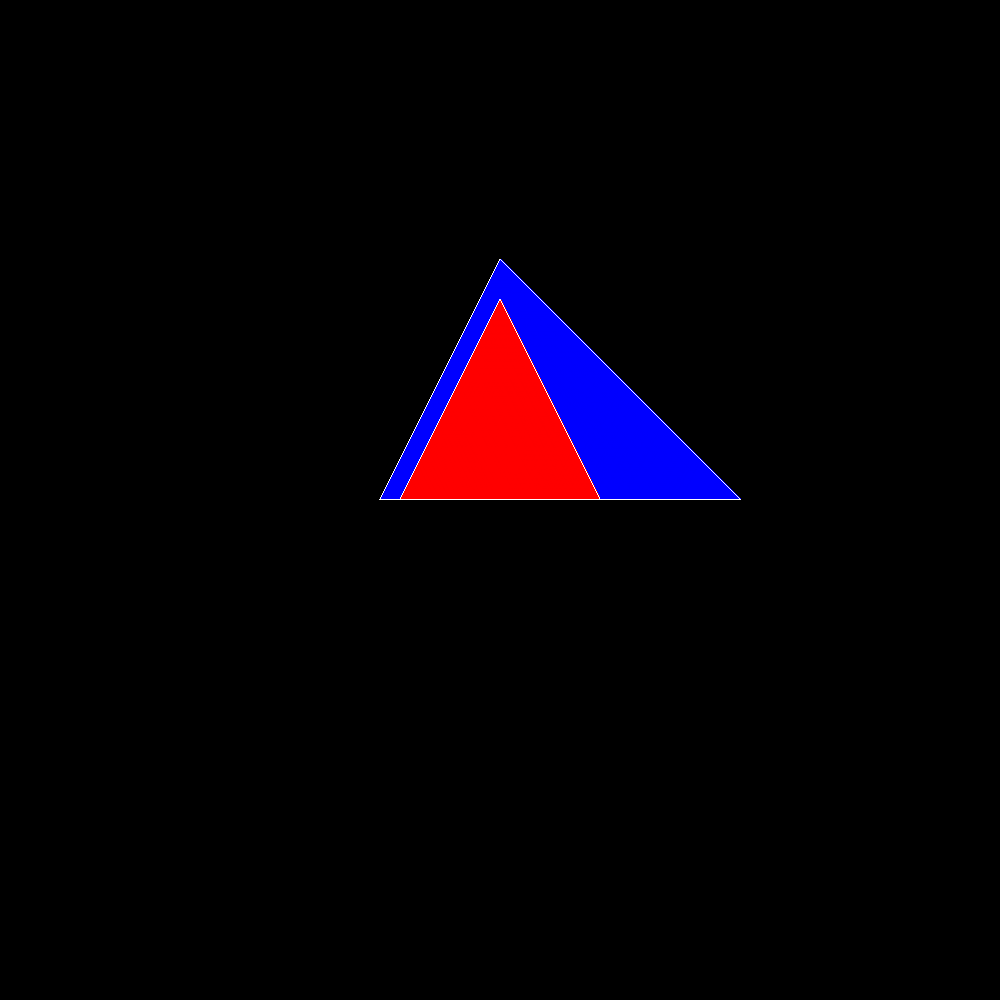
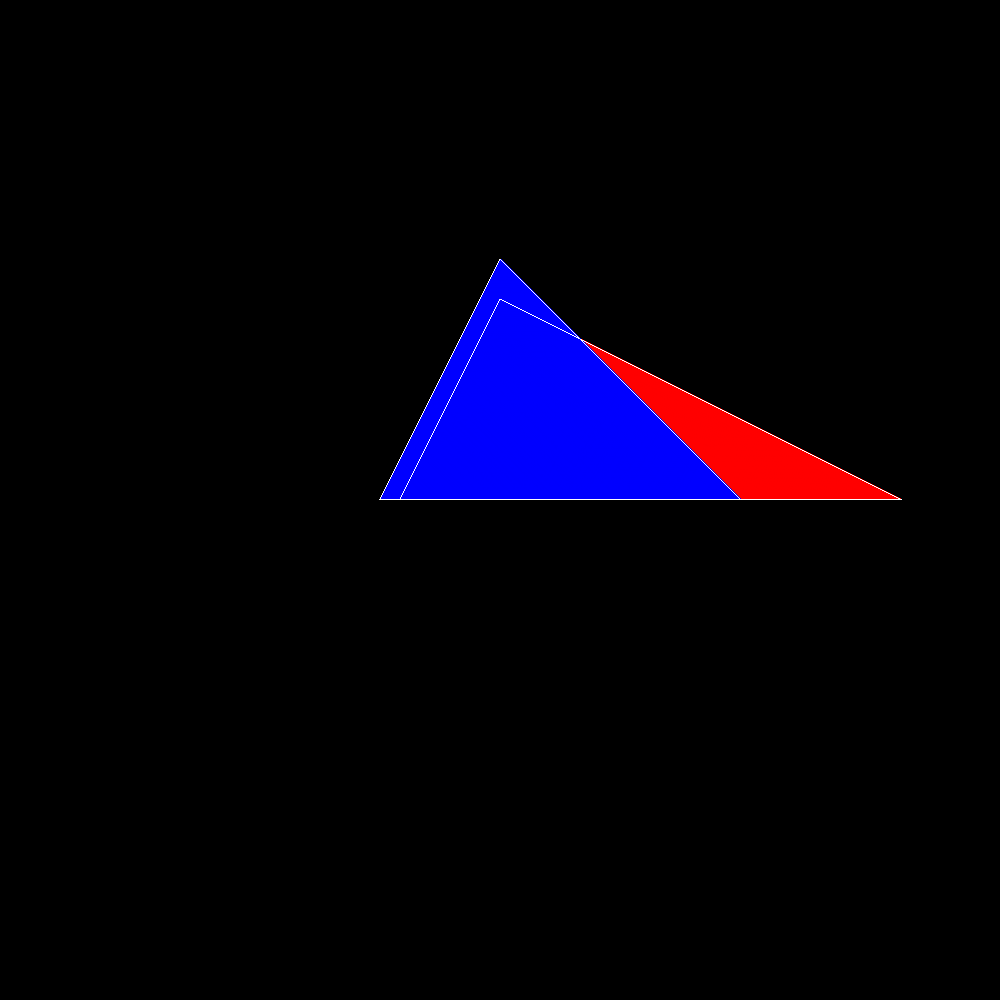
frustum clip

Changed region(s): [[0.403, 0.31, 0.62, 0.496], [0.589, 0.341, 0.899, 0.527]]

diff --git a/src/render.rs b/src/render.rs
@@ -105,6 +105,22 @@ impl Renderer {
         // 窗口变换矩阵
         let viewport_matrix = self.camera.viewport.get_viewport_matrix();
 
+        // 右手系压缩到 z 深度 [0，1], reverse z 0代表原平面，1代码近平面
+        #[rustfmt::skip]
+        let projection_z_reverse_matrix = Mat4::from_rows_slice(&[
+            -1., 0., 0., 0.,
+            0., -1., 0., 0.,
+            0., 0., -1., -1.,
+            0., 0., 0., -1.,
+        ])*projection_matrix;
+        #[rustfmt::skip]
+        let project_reverse_matrix = Mat4::from_rows_slice(&[
+            -1., 0., 0., 0.,
+            0., -1., 0., 0.,
+            0., 0., -1., 0.,
+            0., 0., 0., -1.,
+        ])*projection_matrix;
+
         // 模型坐标系 -> 实际坐标系
         apply_matrix(triangle, model_matrix);
 
@@ -117,9 +133,12 @@ impl Renderer {
         }
 
         // 投影矩阵 从视图坐标系 -> 齐次坐标系
-        apply_matrix(triangle, projection_matrix);
+        apply_matrix(triangle, projection_z_reverse_matrix);
 
-        let frustum = Frustum::from_view_projection(&projection_matrix);
+        let frustum = Frustum::from_view_projection(&projection_z_reverse_matrix);
+        let frustum2 = Frustum::from_view_projection(&project_reverse_matrix);
+        let frustum3 = Frustum::from_view_projection(&projection_matrix);
+
         // 齐次裁剪，这里没有视窗裁剪，三角形中有一个顶点不在视锥里面直接抛弃掉,这里不是太严谨
         if !self.homogeneous_clip(triangle) {
             return;
@@ -153,29 +172,32 @@ impl Renderer {
             .iter()
             .map(|x| x.position.x as usize)
             .min()
-            .unwrap();
+            .unwrap()
+            .max(0);
         let y_min = triangle
             .iter()
             .map(|x| x.position.y as usize)
             .min()
-            .unwrap();
+            .unwrap()
+            .max(0);
 
         let x_max = triangle
             .iter()
             .map(|x| x.position.x as usize)
             .max()
-            .unwrap();
+            .unwrap()
+            .min(self.camera.viewport.physical_size.x as usize);
         let y_max = triangle
             .iter()
             .map(|x| x.position.y as usize)
             .max()
-            .unwrap();
+            .unwrap()
+            .min(self.camera.viewport.physical_size.y as usize);
         println!(
             "{:?}",
             triangle.iter().map(|x| x.position).collect::<Vec<Vec4>>()
         );
         for x in x_min..x_max {
-            println!("");
             for y in y_min..y_max {
                 //经过透视矫正后的重心坐标
                 let p_barycenter = perspective_correct(
@@ -195,11 +217,11 @@ impl Renderer {
                         + triangle[1].position.z * p_barycenter.y
                         + triangle[2].position.z * p_barycenter.z;
 
-                    // z值越大越远
+                    // reverse z z值越大越近，z为 0 是远平面
                     if y < self.camera.viewport.physical_size.y as usize
                         && x < self.camera.viewport.physical_size.x as usize
                         && z_interpolation
-                            < self.depth_buffer
+                            > self.depth_buffer
                                 [y * self.camera.viewport.physical_size.y as usize + x]
                     {
                         // 颜色插值
@@ -219,11 +241,21 @@ impl Renderer {
         println!("rasterization:{},{},{},{}", x_min, y_min, x_max, y_max);
     }
 
+    // 齐次坐标下视锥裁剪
     pub fn homogeneous_clip(&self, triangle: &[Vertex]) -> bool {
+        // 三角形 任意一个点在近平面后面或者超过远平面范围 直接抛弃整个三角形,因为如果在平面上可能会导致除0错误
         if triangle.iter().any(|v| {
-            v.position.w > -self.camera.projectiton.near
-                || v.position.w < -self.camera.projectiton.far
+            v.position.w > self.camera.projectiton.far
+                || v.position.w < self.camera.projectiton.near
         }) {
+            return false;
+        }
+        // 三角形每个点都不在视锥范围里面就裁剪掉，由于是已经是裁剪空间，所以直接比较x,y值和w的大小就行
+        // 要求 -w<x<w -w<y<w
+        else if triangle
+            .iter()
+            .all(|v| v.position.x.abs() > v.position.w || v.position.y.abs() > v.position.w)
+        {
             return false;
         }
         return true;
@@ -346,8 +378,6 @@ pub fn back_face_culling(triangle: &[Vertex], view_dir: Vec3) -> bool {
         .cross(triangle[2].position.xyz() - triangle[1].position.xyz());
     return face_normal.dot(view_dir) < 0.0;
 }
-// 视锥体剔除
-pub fn frustum_culling(triangle: &[Vertex; 3]) {}
 
 pub fn barycentric_2d(p: Vec2, a: Vec2, b: Vec2, c: Vec2) -> Vec3 {
     let double_triangle_area = (b - a).cross(c - a);
@@ -364,5 +394,3 @@ pub fn perspective_correct((alpha, beta, gamma): (f32, f32, f32), w: &Vec<f32>) 
     let normalizer = 1.0 / (w0 + w1 + w2);
     [w0 * normalizer, w1 * normalizer, w2 * normalizer].into()
 }
-
-// 齐次坐标裁剪 视锥裁剪

diff --git a/src/main.rs b/src/main.rs
@@ -154,17 +154,17 @@ mod tests {
         let mut renderer = create_render();
         let mut triangle = [
             Vertex {
-                position: Vec4::new(50., 0., 200., 1.),
+                position: Vec4::new(1050., 0., -100., 1.),
                 color: Some(Color::RED),
                 ..Default::default()
             },
             Vertex {
-                position: Vec4::new(0., 100., 200., 1.),
+                position: Vec4::new(1000., 100., -100., 1.),
                 color: Some(Color::GREEN),
                 ..Default::default()
             },
             Vertex {
-                position: Vec4::new(-50., 0., 200., 1.),
+                position: Vec4::new(950., 0., -100., 1.),
                 color: Some(Color::BLUE),
                 ..Default::default()
             },
@@ -172,7 +172,7 @@ mod tests {
 
         // 相机在 (0,0,300) 看向（0，0，0）
         renderer.camera.transform =
-            Transform::from_xyz(0., 0., 300.).looking_at([0., 0., 0.].into(), Vec3::Y);
+            Transform::from_xyz(0., 0., 100.).looking_at([0., 0., 0.].into(), Vec3::Y);
 
         let model_matrix = Mat4::IDENTITY;
         renderer.draw_triangle(&mut triangle, model_matrix);
@@ -195,7 +195,7 @@ mod tests {
 
         let mut triangle1 = [
             Vertex {
-                position: Vec4::new(50., 0., 0., 1.),
+                position: Vec4::new(200., 0., 0., 1.),
                 color: Some(Color::RED),
                 ..Default::default()
             },

diff --git a/src/camera.rs b/src/camera.rs
@@ -38,6 +38,7 @@ pub struct PerspectiveProjection {
 }
 
 impl CameraProjection for PerspectiveProjection {
+    // 这里映射将z值映射到[0,1]空间
     #[rustfmt::skip]
     fn get_projection_matrix(&self) -> Mat4 {
         let near_z = -self.near;
@@ -53,13 +54,13 @@ impl CameraProjection for PerspectiveProjection {
         let ortho_translation = Mat4::from_rows_slice(&[
             1., 0., 0., 0.,
             0., 1., 0., 0.,
-            0., 0., 1., -(near_z + far_z) / 2.,
+            0., 0., 1., -near_z,
             0., 0., 0., 1.,
         ]);
         let ortho_scale = Mat4::from_rows_slice(&[
-            2. / width_near, 0., 0., 0.,
-            0., 2. / height_near, 0., 0.,
-            0., 0., 2. / (near_z - far_z), 0.,
+            2./width_near, 0., 0., 0.,
+            0., 2./height_near, 0., 0.,
+            0., 0., 1./(near_z-far_z), 0.,
             0., 0., 0., 1.,
         ]);
         ortho_scale * ortho_translation * persp_to_ortho

diff --git a/src/primitives.rs b/src/primitives.rs
@@ -37,6 +37,7 @@ impl HalfSpace {
     }
 }
 
+// left right top bottom near far
 #[derive(Clone, Copy, Debug, Default)]
 pub struct Frustum {
     pub half_spaces: [HalfSpace; 6],
